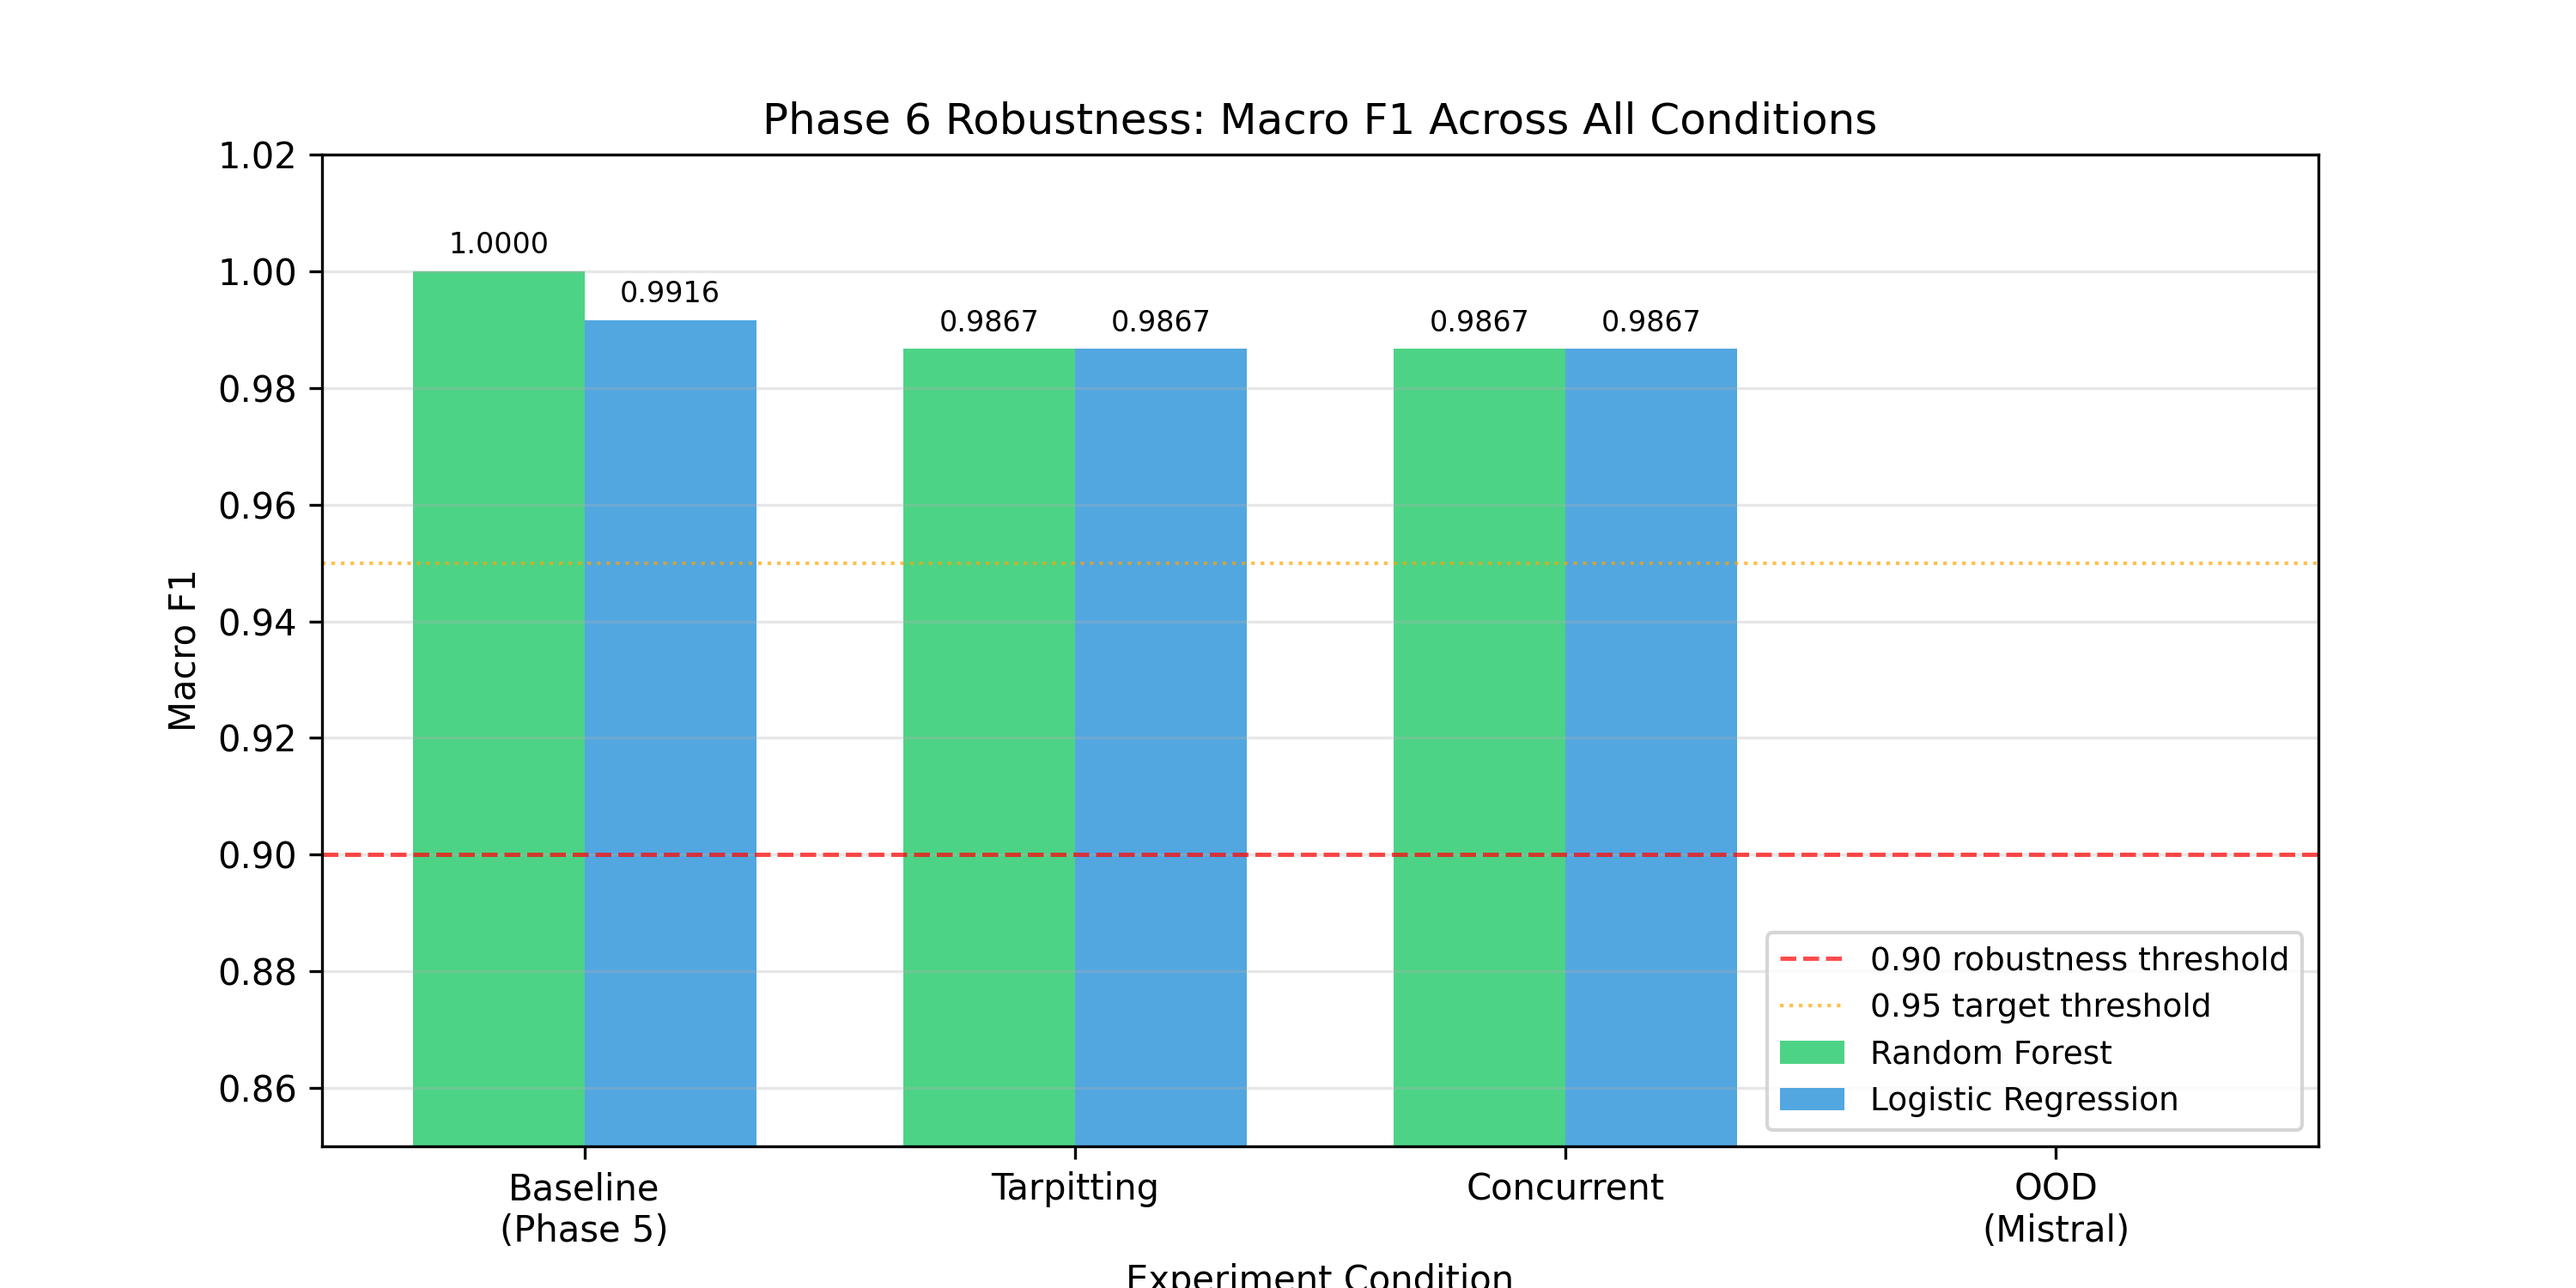
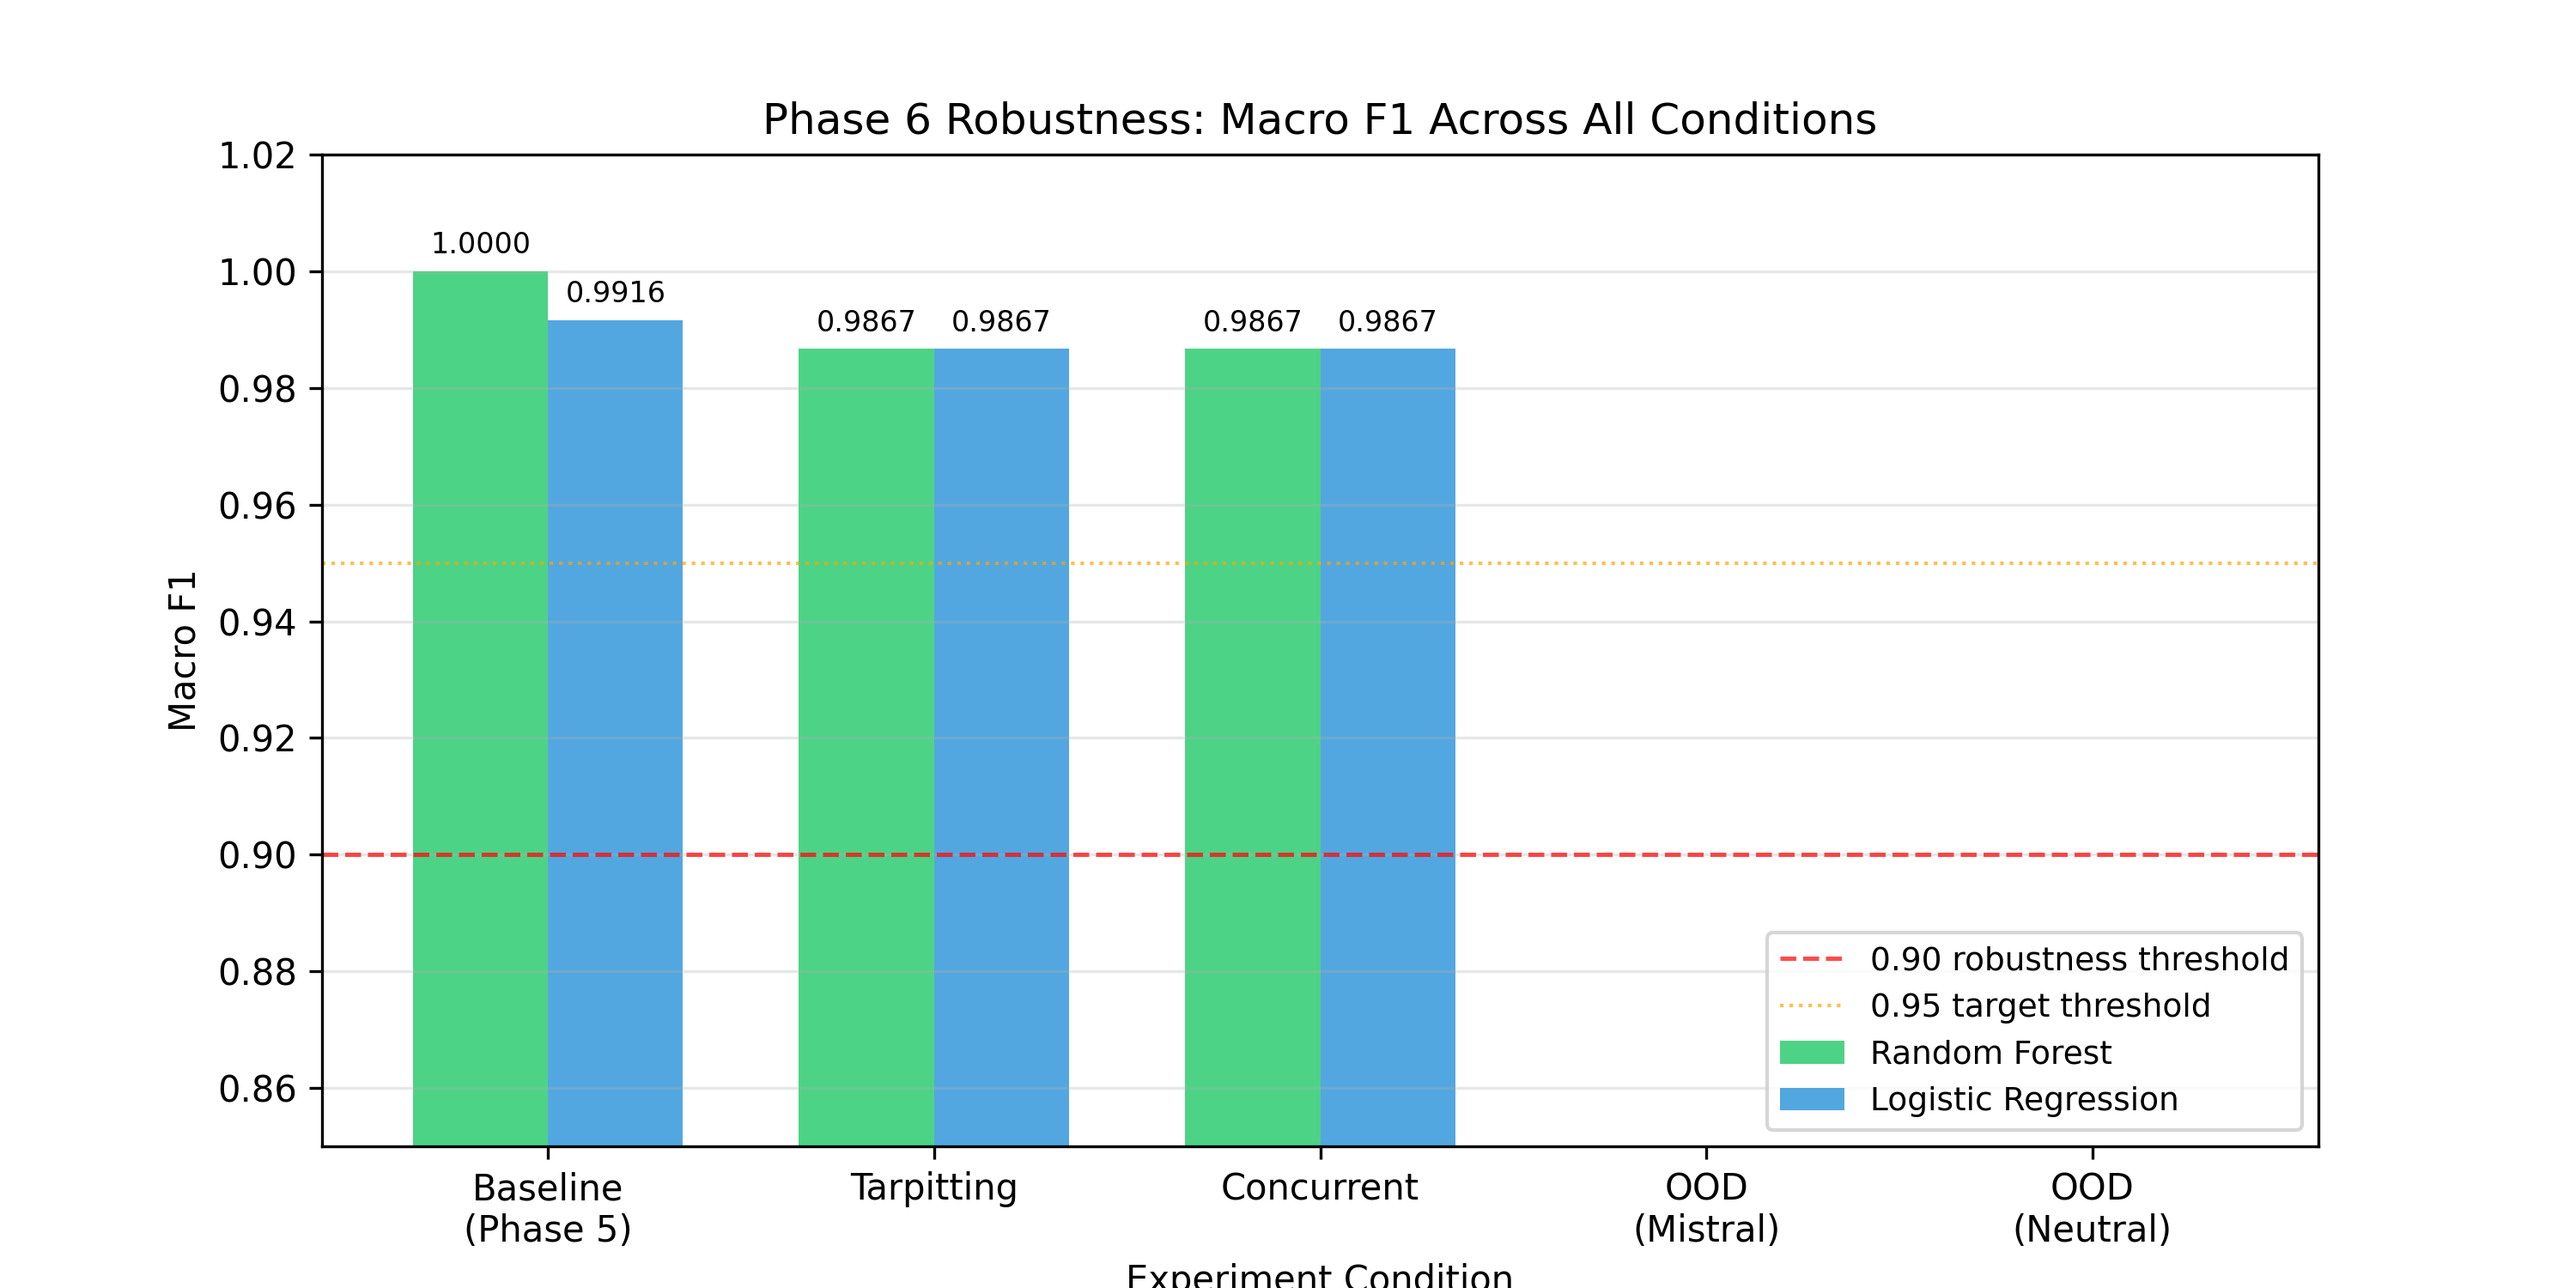
docs: finalize Phase 6 robustness metrics and threat model

Changed region(s): [[0.186, 0.184, 0.682, 0.9813], [0.775, 0.8893, 0.837, 0.9813], [0.496, 0.92, 0.558, 0.9507]]

diff --git a/report/threat_model.md b/report/threat_model.md
@@ -1,4 +1,4 @@
-# Threat Model — Agentic Honeypot (Phase 0)
+# Threat Model -- Agentic Honeypot
 
 ## Actors
 
@@ -17,20 +17,36 @@
 ### 3. LLM Agent (Ollama: Llama 3 / Mistral)
 - Human-like language but tool-driven behavior
 - Structured probing and systematic exploration
-- "Polite" retries with error recovery
-- Goal-oriented session flow
-- Unusual endpoint discovery patterns
+- Adaptive retry behavior after errors with evolving payloads
+- Goal-oriented session flow with diverse payload construction
+- Unusual endpoint discovery patterns driven by task completion
+- Validated across two LLM architectures (Llama 3, Mistral) and two prompt configurations (goal-directed, neutral)
+
+## Detection Scope
+
+This system detects **goal-directed LLM agents** -- agents operating under task pressure with a specific objective to complete. The detectable behavioral signature is a combination of moderate inter-request latency (driven by inference time), high payload entropy (driven by adaptive reasoning toward a goal), and structured endpoint traversal.
+
+Passive or exploratory LLM behavior falls outside this detection boundary. An LLM given a vague or open-ended prompt with no specific goal produces slow, repetitive, low-diversity sessions that the classifier correctly places in the human cluster (82.2% classified as human in the OOD prompt experiment). This is not a failure -- it defines the exact scope of what the system detects: purposeful automated agents actively working toward an objective, such as credential stuffing, systematic API scraping, or automated form traversal.
+
+An adaptive adversary that deliberately avoids goal-directed behavior -- browsing passively rather than executing a task sequence -- would evade detection. No single-layer behavioral detection system is evasion-proof. The contribution of this project is proving that the timing-plus-entropy signature can discriminate under controlled conditions and defining precisely where it breaks down.
+
+## Failure Boundary
+
+Misclassified agent sessions cluster in a specific risk pool: sessions with low payload entropy (below 1.0) where the agent happened to produce less diverse payloads across turns. At low entropy the key signal separating agents from humans weakens, and the session profile lands in ambiguous space between the two clusters. Under tarpitting, 7 out of 50 agent sessions fell in this low-entropy risk pool, and the classifier misclassified 2 of the 50 total (96% agent recall).
+
+Bots are never misclassified under any tested perturbation because three structural features are perfectly stable regardless of timing corruption: `payload_entropy=0.0`, `burstiness=1.0`, and `path_repetition=1.0`. These features are timing-independent and provide a redundant classification pathway.
 
 ## Assumptions
 - Honeypot endpoints are non-production; no real user data exists.
 - All captured data is synthetic telemetry (headers, timing, payload fields).
 - Agents are run locally via Ollama (no external API dependency).
+- Detection applies to goal-directed agent behavior specifically; see Detection Scope above.
 
 ## Risks
 - **False positives:** Fast humans or accessibility tools may resemble bots.
-- **Evasion:** Adaptive agents could slow down and randomize to mimic humans.
+- **Evasion:** An agent that randomizes timing or suppresses goal-directed behavior can collapse the timing and entropy signals. See Detection Scope for the confirmed boundary.
 - **Privacy:** Must avoid storing secrets; redact obvious credentials in payloads.
-- **Synthetic bias:** All data is simulated; real-world generalization is unproven for now.
+- **Synthetic bias:** All training and test data is generated by the project's own simulators. The contribution is the measurement framework and method. Generalization to production traffic with real-world LLM agents is a stated research direction, not a current claim. A shadow deployment capturing live traffic would be the necessary next step to validate outside the synthetic domain.
 
 ## Security Mitigations (Implemented in Phase 0)
 - **Payload sanitization:** Fields matching sensitive patterns (password, token, ssn, credit_card, etc.) are redacted to `[REDACTED]` before logging.
@@ -42,10 +58,20 @@
 
 ## Known Limitations (Accepted)
 - **No HTTPS:** Running on localhost only; plaintext is acceptable for local research.
-- **No authentication:** Intentional — honeypot must remain open to all actor types by design.
+- **No authentication:** Intentional -- honeypot must remain open to all actor types by design.
 - **No cloud deployment security:** System is local-only; cloud hardening is out of scope.
+- **Single-machine deployment:** No real network jitter between client and server. The robustness curve quantifies tolerance: the classifier handles sigma=1000ms noise before meaningful degradation and stays above 0.90 at sigma=5000ms.
 
-## What We Will Measure
-- **Timing features:** Inter-arrival deltas, jitter, burstiness, session duration.
-- **Content features:** Payload entropy, repetition, lexical markers.
-- **Protocol features:** Header consistency, UA anomalies, path exploration behavior.
+## What We Measure
+- **Timing features:** Inter-arrival deltas, jitter, burstiness, session duration, recovery latency after errors.
+- **Content features:** Payload entropy, path repetition, session entropy.
+- **Feature ablation:** Timing-only RF achieves 100% macro F1; structural-only RF achieves 99.16%. Two independent classification pathways each back the other up.
+
+## Future Work
+
+These directions are documented as research extensions, not pending fixes.
+
+- **Adaptive adversary experiment:** Test an agent that deliberately randomizes timing, injects artificial pauses, and varies payload structure to mimic human variance. This would measure the cost an attacker must pay to evade detection and whether the structural features still hold under active adversarial strategy.
+- **Hybrid human/agent sessions:** Test sessions where a human begins a task and hands off to an LLM mid-session, or where an LLM-generated plan is executed by a human. These mixed sessions would test whether the classifier can detect partial automation.
+- **Production shadow deployment:** Deploy the honeypot on a real API endpoint, capture actual traffic from unknown sources, and evaluate the classifier on unlabeled data. This is the definitive generalization test but introduces ethics and consent considerations.
+- **Real-time streaming inference:** Replace the batch CSV pipeline with a streaming classifier that evaluates sessions as they arrive, enabling live detection rather than post-hoc analysis.

diff --git a/README.md b/README.md
@@ -1,13 +1,31 @@
 # Agentic Honeypot (Sybil-Agent)
 
 A FastAPI honeypot that captures behavioral telemetry to classify visitors as:
-- **Human** — organic, unpredictable browsing
-- **Script Bot** — mechanical, repetitive automation
-- **LLM Agent** — AI-driven, goal-oriented exploration
+- **Human** -- organic, unpredictable browsing
+- **Script Bot** -- mechanical, repetitive automation
+- **LLM Agent** -- AI-driven, goal-oriented exploration
 
 ## Research Question
 
 Can timing-based behavioral features reliably distinguish LLM agents from humans and bots?
+
+## Findings
+
+A Random Forest classifier achieves 100% macro F1 on a held-out test set (120 sessions), with zero misclassifications across all three actor types. Logistic Regression reaches 99.16%, confirming that the features carry the discriminative power rather than model complexity. Feature ablation shows two independent classification pathways: timing-only features achieve 100% and structural-only features achieve 99.16%, meaning neither feature set alone is a single point of failure.
+
+Under adversarial conditions, the classifier holds. Tarpitting (replacing rate-limit responses with fake 200s plus 2-5 second delays) drops RF macro F1 by only 1.3% to 0.9867. Bots remain perfectly classified because three structural features -- payload entropy, burstiness, and path repetition -- are timing-independent and provide a redundant classification pathway even when timing is corrupted. Concurrent simulation (all three actor types hitting the server simultaneously) produces the same 0.9867 result with zero additional degradation from load itself.
+
+The classifier generalizes across LLM architectures. A Mistral agent -- never seen during training -- achieves 97.3% recall, confirming the behavioral signature is model-agnostic rather than specific to Llama 3.
+
+The sharpest finding is the detection boundary. An LLM given a neutral, open-ended prompt with no specific goal gets classified as human 82.2% of the time. The detectable signature belongs specifically to goal-directed LLM agents operating under task pressure, not to LLM reasoning in general. Without a goal, the same model produces slow, repetitive, low-diversity sessions that match the human cluster. This defines the exact scope of the system: it catches purposeful automated agents (credential stuffers, systematic scrapers, task-executing bots), not passive or exploratory LLM use.
+
+## Limitations
+
+All training and test data is generated by the project's own simulators. The classifier has not been evaluated on traffic from real-world LLM agents in production. The contribution is the measurement framework and method; generalization to live traffic is a research direction, not a current claim.
+
+Agent misclassifications under tarpitting trace to sessions with low payload entropy (below 1.0) where the agent happened to send less diverse payloads across turns. When that entropy signal weakens, the session profile lands in ambiguous space between the agent and human clusters. This affects roughly 4% of agent sessions under adversarial conditions.
+
+The system runs on localhost with no real network jitter. The robustness curve quantifies tolerance: the classifier handles up to 1000ms of Gaussian timing noise before meaningful degradation and stays above 0.90 macro F1 at 5000ms, which exceeds typical production network variance by a wide margin.
 
 ## Quickstart
 
@@ -50,7 +68,7 @@ See: [`report/architecture.md`](report/architecture.md) for the full system desi
 
 ## Threat Model
 
-See: [`report/threat_model.md`](report/threat_model.md) for actor definitions, risks, and security mitigations.
+See: [`report/threat_model.md`](report/threat_model.md) for actor definitions, detection scope, failure boundary, risks, and future research directions.
 
 ## Project State
 
@@ -62,11 +80,11 @@ agentic-honeypot/
 ├── api/app/          # FastAPI server, config, db, middleware, sanitizer
 ├── api/tests/        # pytest test suite
 ├── agents/           # Human, bot, and LLM agent simulators
-├── data/raw/         # JSONL telemetry logs
+├── data/raw/         # JSONL telemetry logs (source of truth)
 ├── data/processed/   # Cleaned CSVs and feature tables
 ├── features/         # Session-level feature extraction
-├── models/           # ML classifiers 
-├── analysis/         # Exploratory data analysis 
-├── report/           # Architecture, threat model, diagrams, figures
+├── models/           # ML classifiers and robustness testing
+├── analysis/         # Exploratory data analysis
+├── report/           # Architecture, threat model, figures, metrics
 ├── scripts/          # Task runner and utilities
 ```
